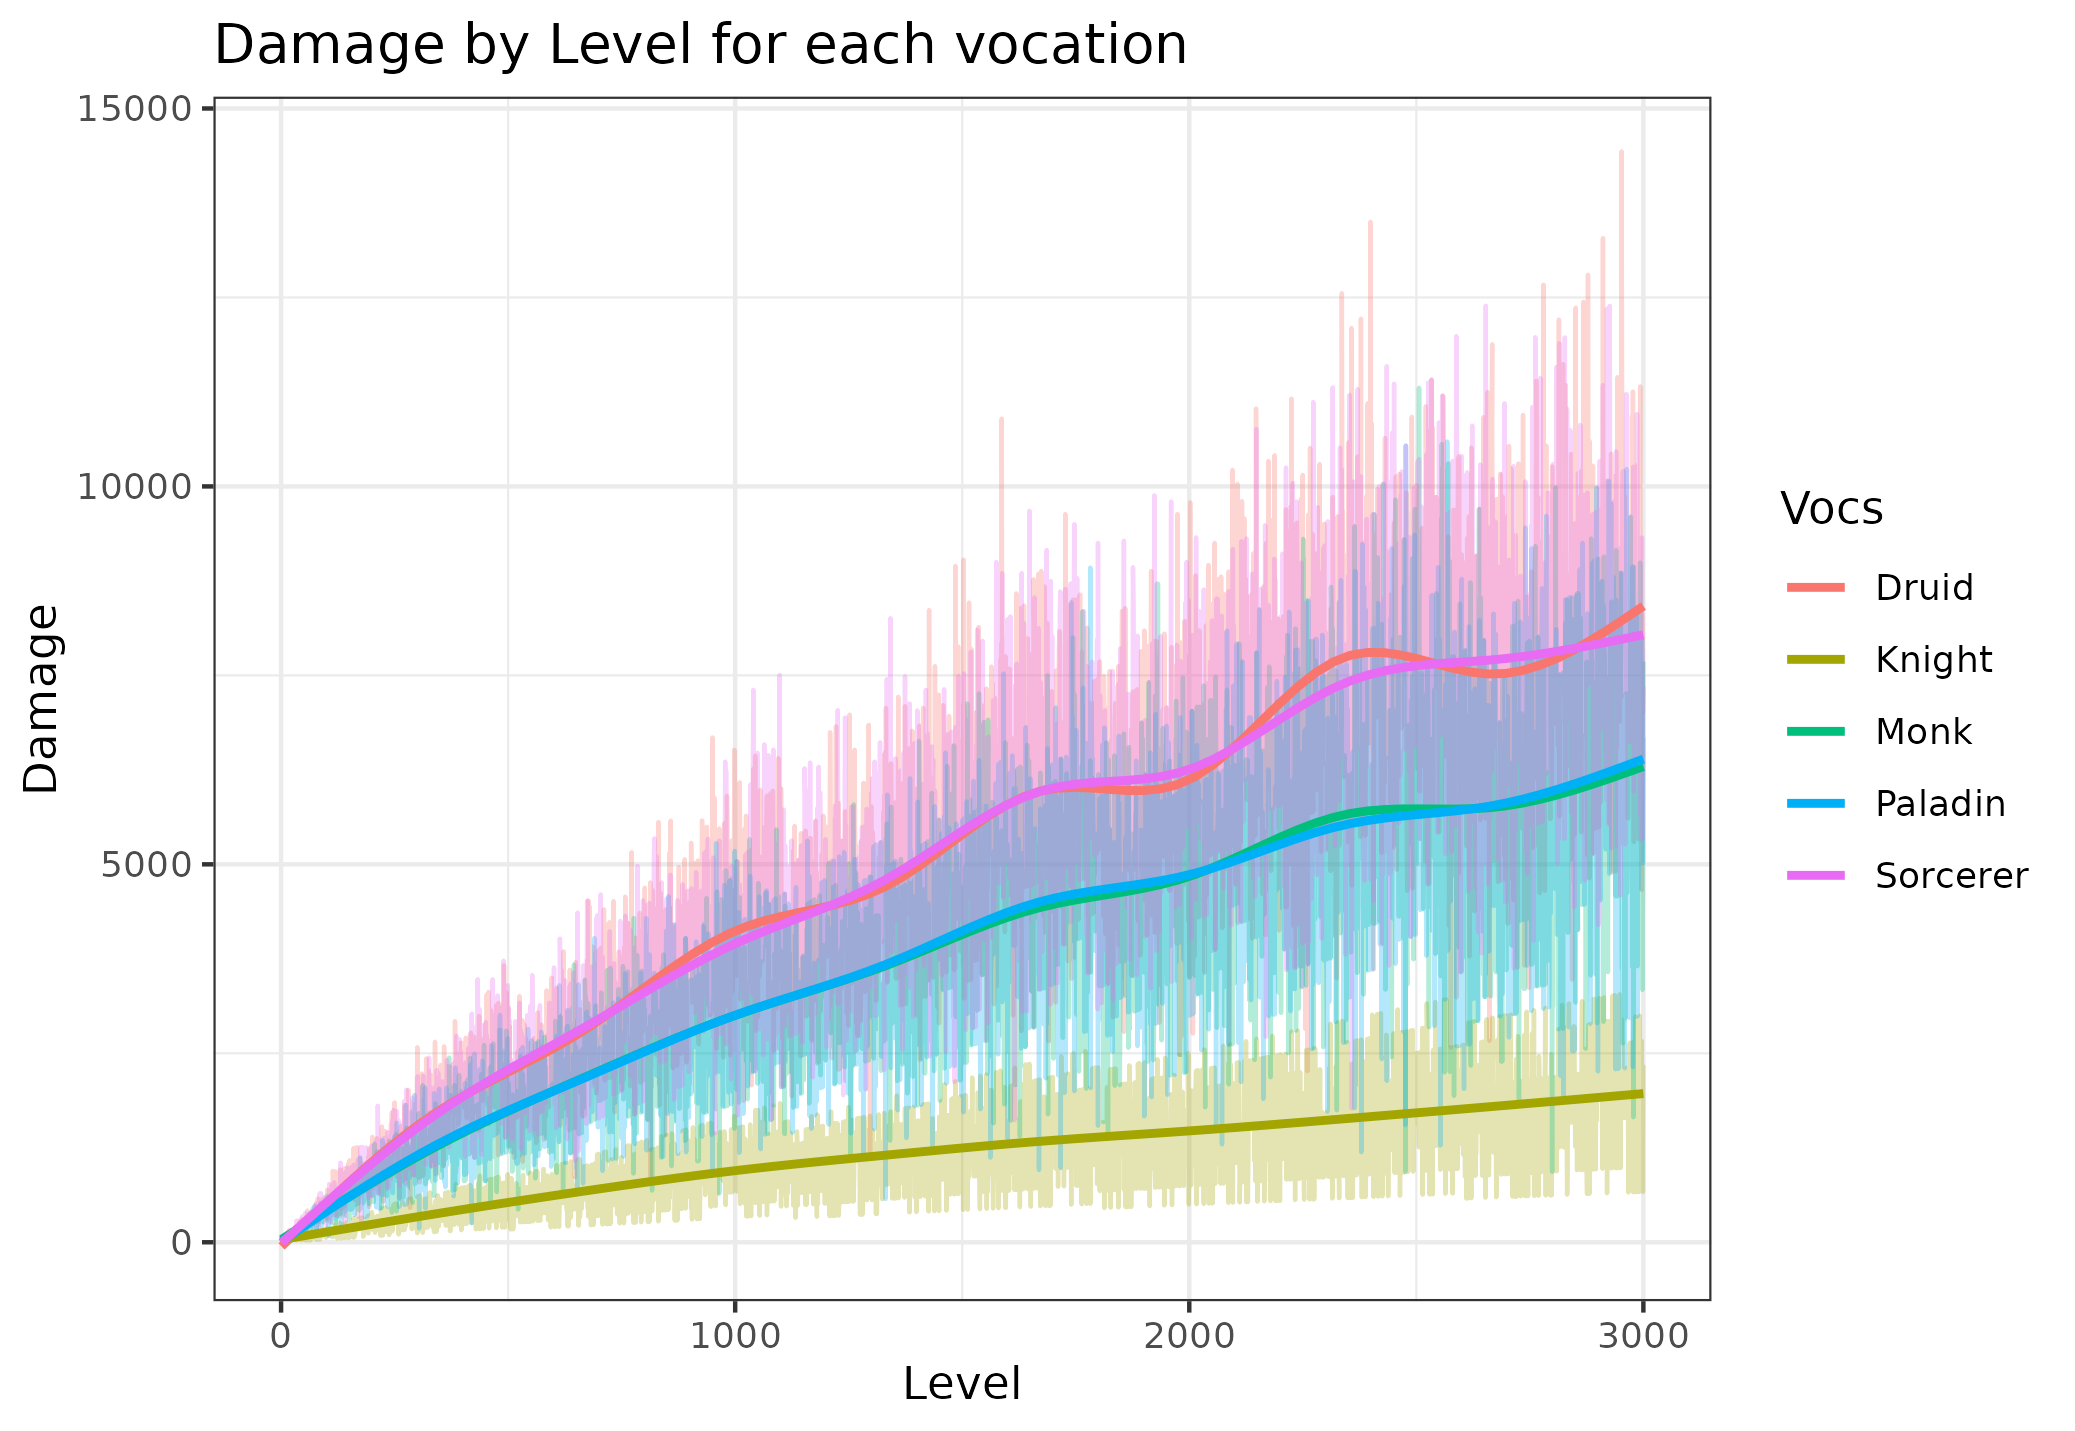
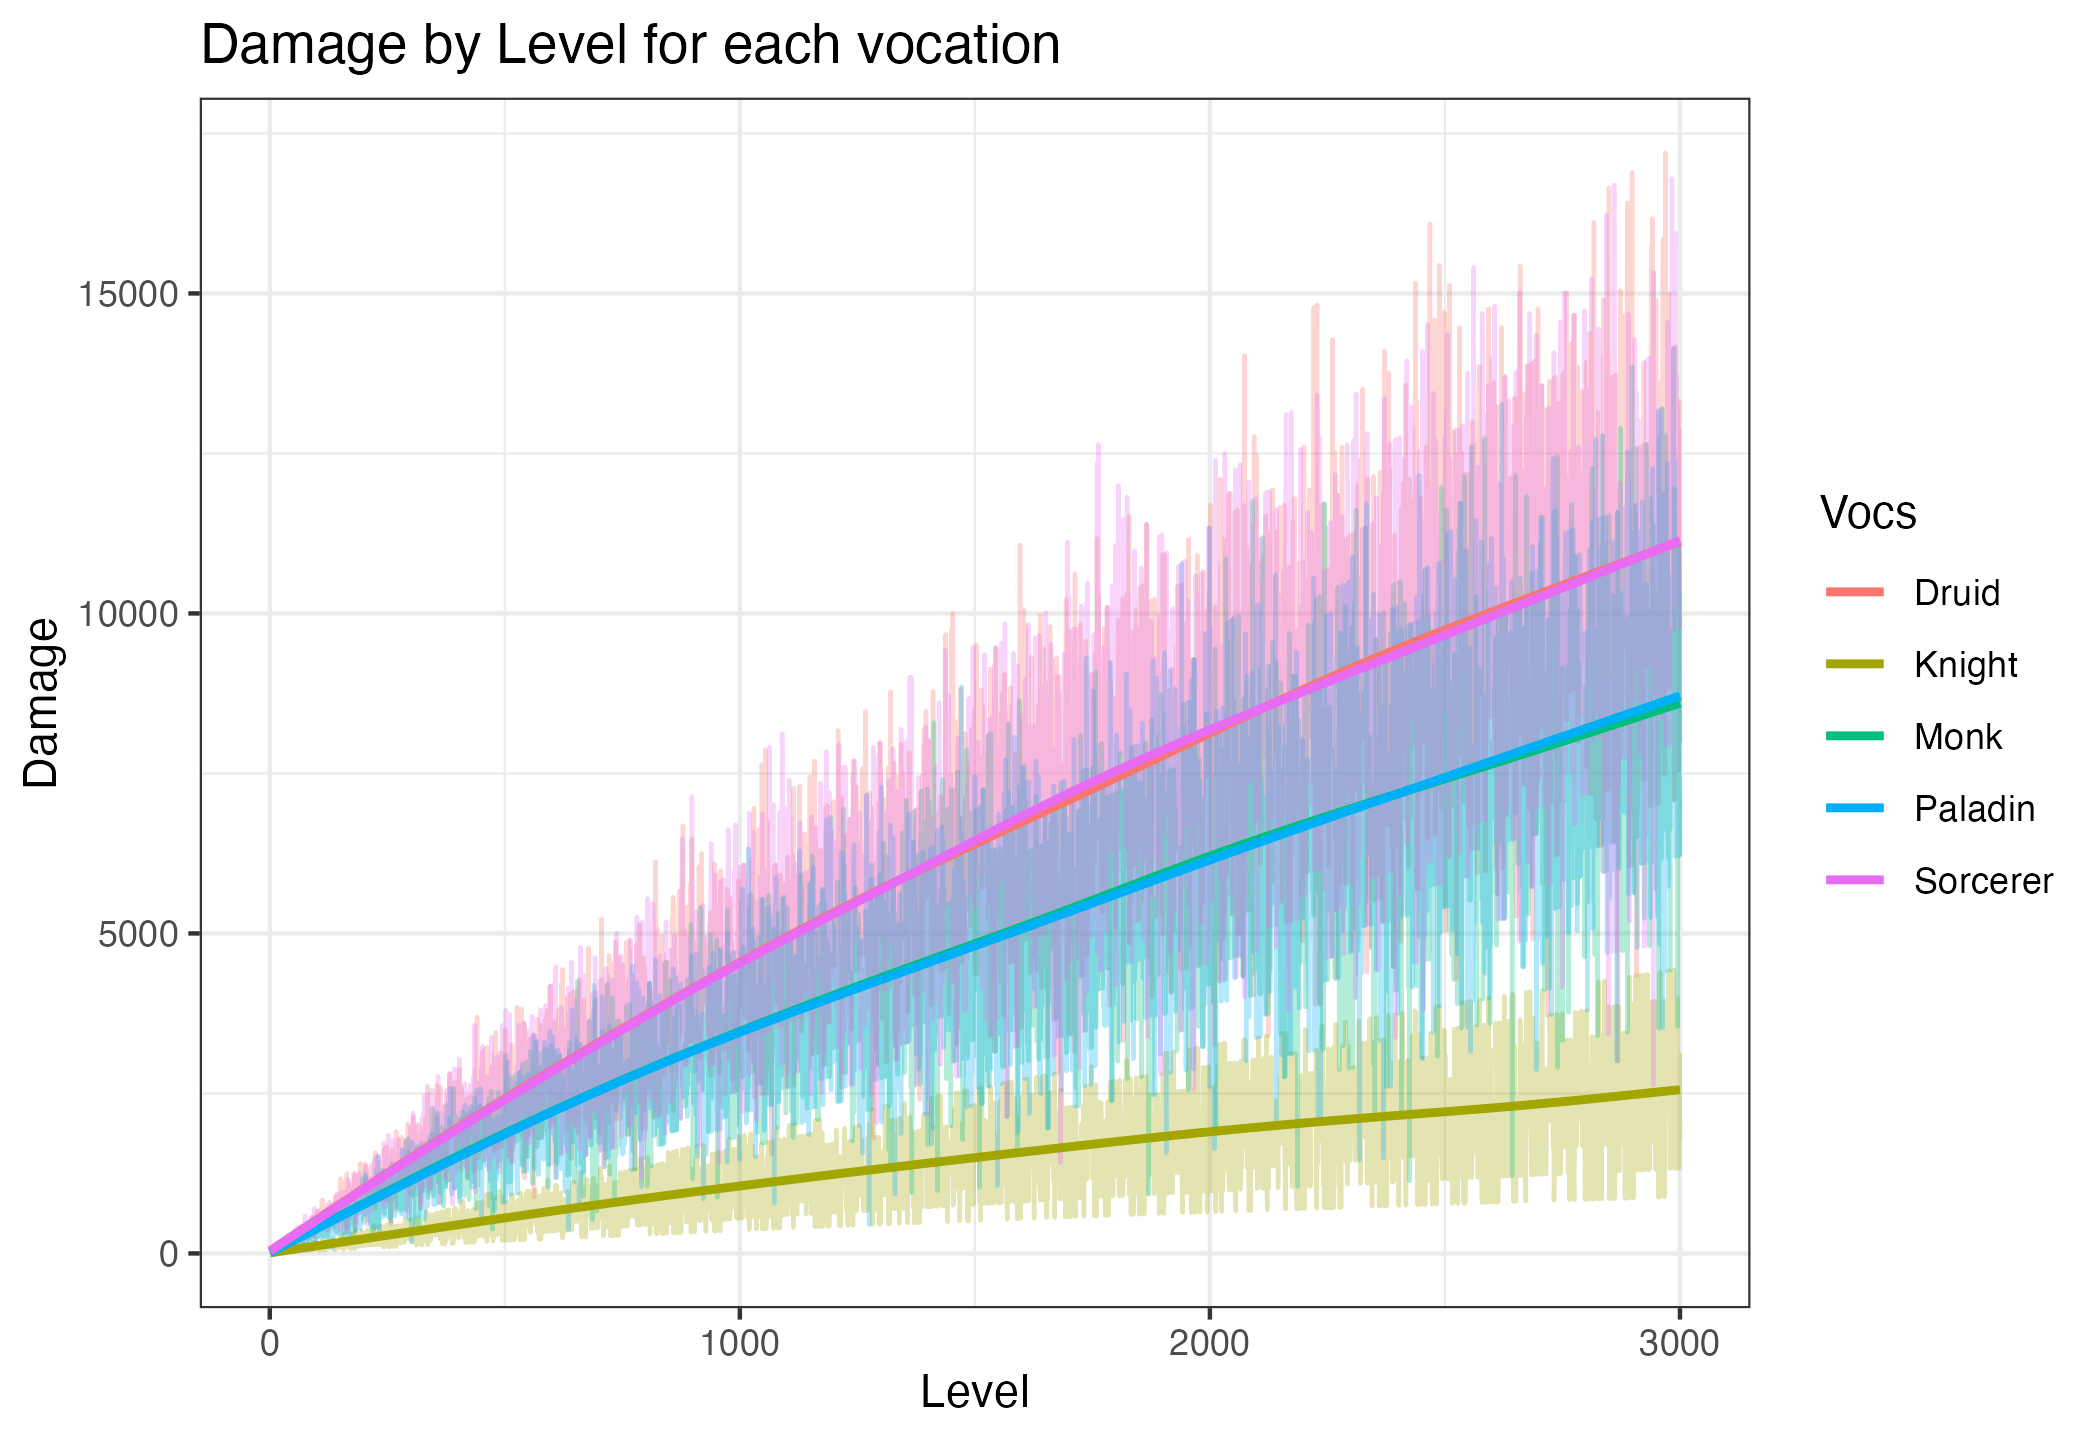
Fix damage model bugs and update figures and README
- Diamond Arrow now replaces the paladin basic attack and attacks in a
  turn are added, not multiplied
- Base damage is cumulative across level brackets (no drops) and uses floor
- Add set.seed, vectorize the simulation and add use_diamond_arrow /
  save_figures switches
- Regenerate figures and rewrite README results and conclusions
- Remove outdated Histograms_Damage.pdf

diff --git a/README.md b/README.md
@@ -16,13 +16,15 @@ I am doing this as the characters levels grows. The damage modeled here is compo
 #### Basic Attacks
 
 The Basic attack changes as the character get higher levels, as follows:
-- From level 1 to level 500, each 5 levels adds 1 of the Base damage, 
-- From level 150 to 500 each 6 levels add 1 of the Base damage,
-- From level 501 to 1100 each 7 levels add 1 to the Base damage… and so on.
+- From level 1 to level 500, each 5 levels adds 1 to the Base damage,
+- From level 501 to level 1100, each 6 levels adds 1 to the Base damage,
+- From level 1101 to level 1800, each 7 levels adds 1 to the Base damage… and so on (8 levels until 2600, 9 until 3500, 10 until 4300, 11 until 5200 and 12 until 6200).
 
+The gains are cumulative: a character keeps all the Base damage gained in the previous brackets, so the Base damage never decreases.
+For example, a level 500 character has 100 of Base damage, a level 1100 character has 200 and a level 3000 character has 444.
 All the characters begins the same, with 1 of Base damage attack.
 
-![alt text](https://github.com/lucascamacho/tibia_damage/blob/main/basic_attack.png)
+![alt text](basic_attack.png)
 
 #### Area Attacks
 
@@ -34,16 +36,27 @@ you hit when you trow a rune, send an diamond arrow, cast *exori gran*, etc, etc
 The quantity of how much monsters the characters hit in an single Area attack is sampled from a truncated normal distribution 
 where the minimum value that hit is 1 and the maximum is the size, in sqm’s, that the Area attack hit.
 
-![alt text](https://github.com/lucascamacho/tibia_damage/blob/main/area_attack.png)
+![alt text](area_attack.png)
+
+In each turn, each vocation does:
+- Knight: 1 Basic attack + *exori gran* (9 sqm)
+- Sorcerer: 1 Basic attack + GFB (37 sqm) + *exori vis hur* (11 sqm)
+- Druid: 1 Basic attack + Avalanche (37 sqm) + *exori terra hur* (11 sqm)
+- Paladin: 1 Basic attack + Avalanche (37 sqm). From level 150, the Basic attack can be a Diamond Arrow (21 sqm)
+- Monk: 1 Basic attack + Avalanche (37 sqm)
+
+The damage of all the attacks in a turn is added. The Diamond Arrow is not an extra attack: it replaces the Paladin Basic attack, 
+which then hits all the monsters in its area instead of a single one.
 
 Let’s get a practical example. We have our knight named Knight, very creative. Knight can attack one base attack and one *exori gran* 
 in a single turn. So in the level 1 turn, Knight could hit one Basic attack which the damage depends on the Knight’s level plus the Area attack 
 which is an *exori gran* which has 9 sqm’s. The quantity of monsters that Knight will hit in the *exori gran* is a sampled number from 1 to 9 
 sqm’s from a truncated normal distribution. Suppose that Knight is a lucky guy and in this level 1 turn, he hits 7 monsters with his *exori gran*. 
-So the final damage of our Knight in the level 1 will be Base attack + Area attack => 1 + (1 * 7) =  9. 
+So the final damage of our Knight in the level 1 will be Base attack + Area attack => 1 + (1 * 7) = 8. 
 That’s the basic intuition of our model. 
 
-I let the model run for 6000 timesteps which represents the damage of our characters in the level 1 to level 6000.
+I let the model run for 3000 timesteps which represents the damage of our characters in the level 1 to level 3000.
+In the script, `use_diamond_arrow` switches the Diamond Arrows on and off, and `save_figures` saves the figures below.
 
 ### Assumptions
 
@@ -58,30 +71,46 @@ in scenarios of different attacks and levels. Some simplifications are made:
 
 ### Results with Diamond Arrows
 
-Paladins has a lot of damage after level 150 due to the Diamond Arrow use. Look at the x axis range in the Paladin histogram.
+On average, the damage in a turn (in multiples of the Base damage) is:
 
-![alt text](https://github.com/lucascamacho/tibia_damage/blob/main/Histograms_Damage.png)
+| Knight | Sorcerer | Druid | Paladin | Monk |
+|---|---|---|---|---|
+| 5.8 | 24.9 | 25.0 | 27.9 | 19.1 |
 
-But also Paladins has a lot of variation due to the possibility of both attacks hit only a single monster in a single turn.
+With Diamond Arrows, Paladins have the highest damage, but only about 12% above Sorcerers and Druids.
+Nothing astronomic.
 
-![alt text](https://github.com/lucascamacho/tibia_damage/blob/main/Damage_Voc.png)
+![alt text](Histograms_Damage.png)
+
+Paladins are on top along all the levels, close to Sorcerers and Druids. Knights are far behind.
+
+![alt text](Damage_Voc.png)
 
 Let's remove the Diamond Arrows from Paladins and see how the damage stays
 
 ### Results without Diamond Arrows
 
-Well, Paladins have now more "normal" damage compared to other vocations. 
+| Knight | Sorcerer | Druid | Paladin | Monk |
+|---|---|---|---|---|
+| 5.8 | 24.9 | 25.0 | 19.0 | 19.1 |
 
-![alt text](https://github.com/lucascamacho/tibia_damage/blob/main/NoArrow_Histograms_Damage.png)
+Without Diamond Arrows, Paladins have the same damage as Monks (both use a single Basic attack + Avalanche), 
+and Druids and Sorcerers have the highest damage.
 
-More comparable, right? Now, Druids and Sorcerers have the highest damage but nothing astronomic.
+![alt text](NoArrow_Histograms_Damage.png)
 
-![alt text](https://github.com/lucascamacho/tibia_damage/blob/main/NoArrow_Damage_Voc.png)
+![alt text](NoArrow_Damage_Voc.png)
 
 ### (Basic) Conclusions
 
+In this model, Diamond Arrows put Paladins on top, but by a small margin: they add about 9 times the Base damage per turn, 
+which moves Paladins from the Monk level to slightly above Sorcerers and Druids. The "massive" damage advantage does not appear.
+Also, since all the vocations share the same Base damage, the difference between vocations is the same at any level: 
+leveling increases the damage of everyone, but does not change who is ahead.
+
 The model is very simplistic and there is a lot of other factors affecting the damage that a player can do with a certain vocation
-like ability of the player in never loose a attack turn or never miss an arrow turn, healing moments, KS, random factors in a hunt, etc, etc. 
+like ability of the player in never loose a attack turn or never miss an arrow turn, healing moments, KS, random factors in a hunt, 
+spell cooldowns, magic level and skills, etc, etc. 
 Nevertheless, it is a starting point to understand and answer the question about the vocations balance which is fundamental to understand because
 influences XP/hr, money, TC's and the social relations within Tibia related to which vocation you choose to your guild or in a guild war context.
 
